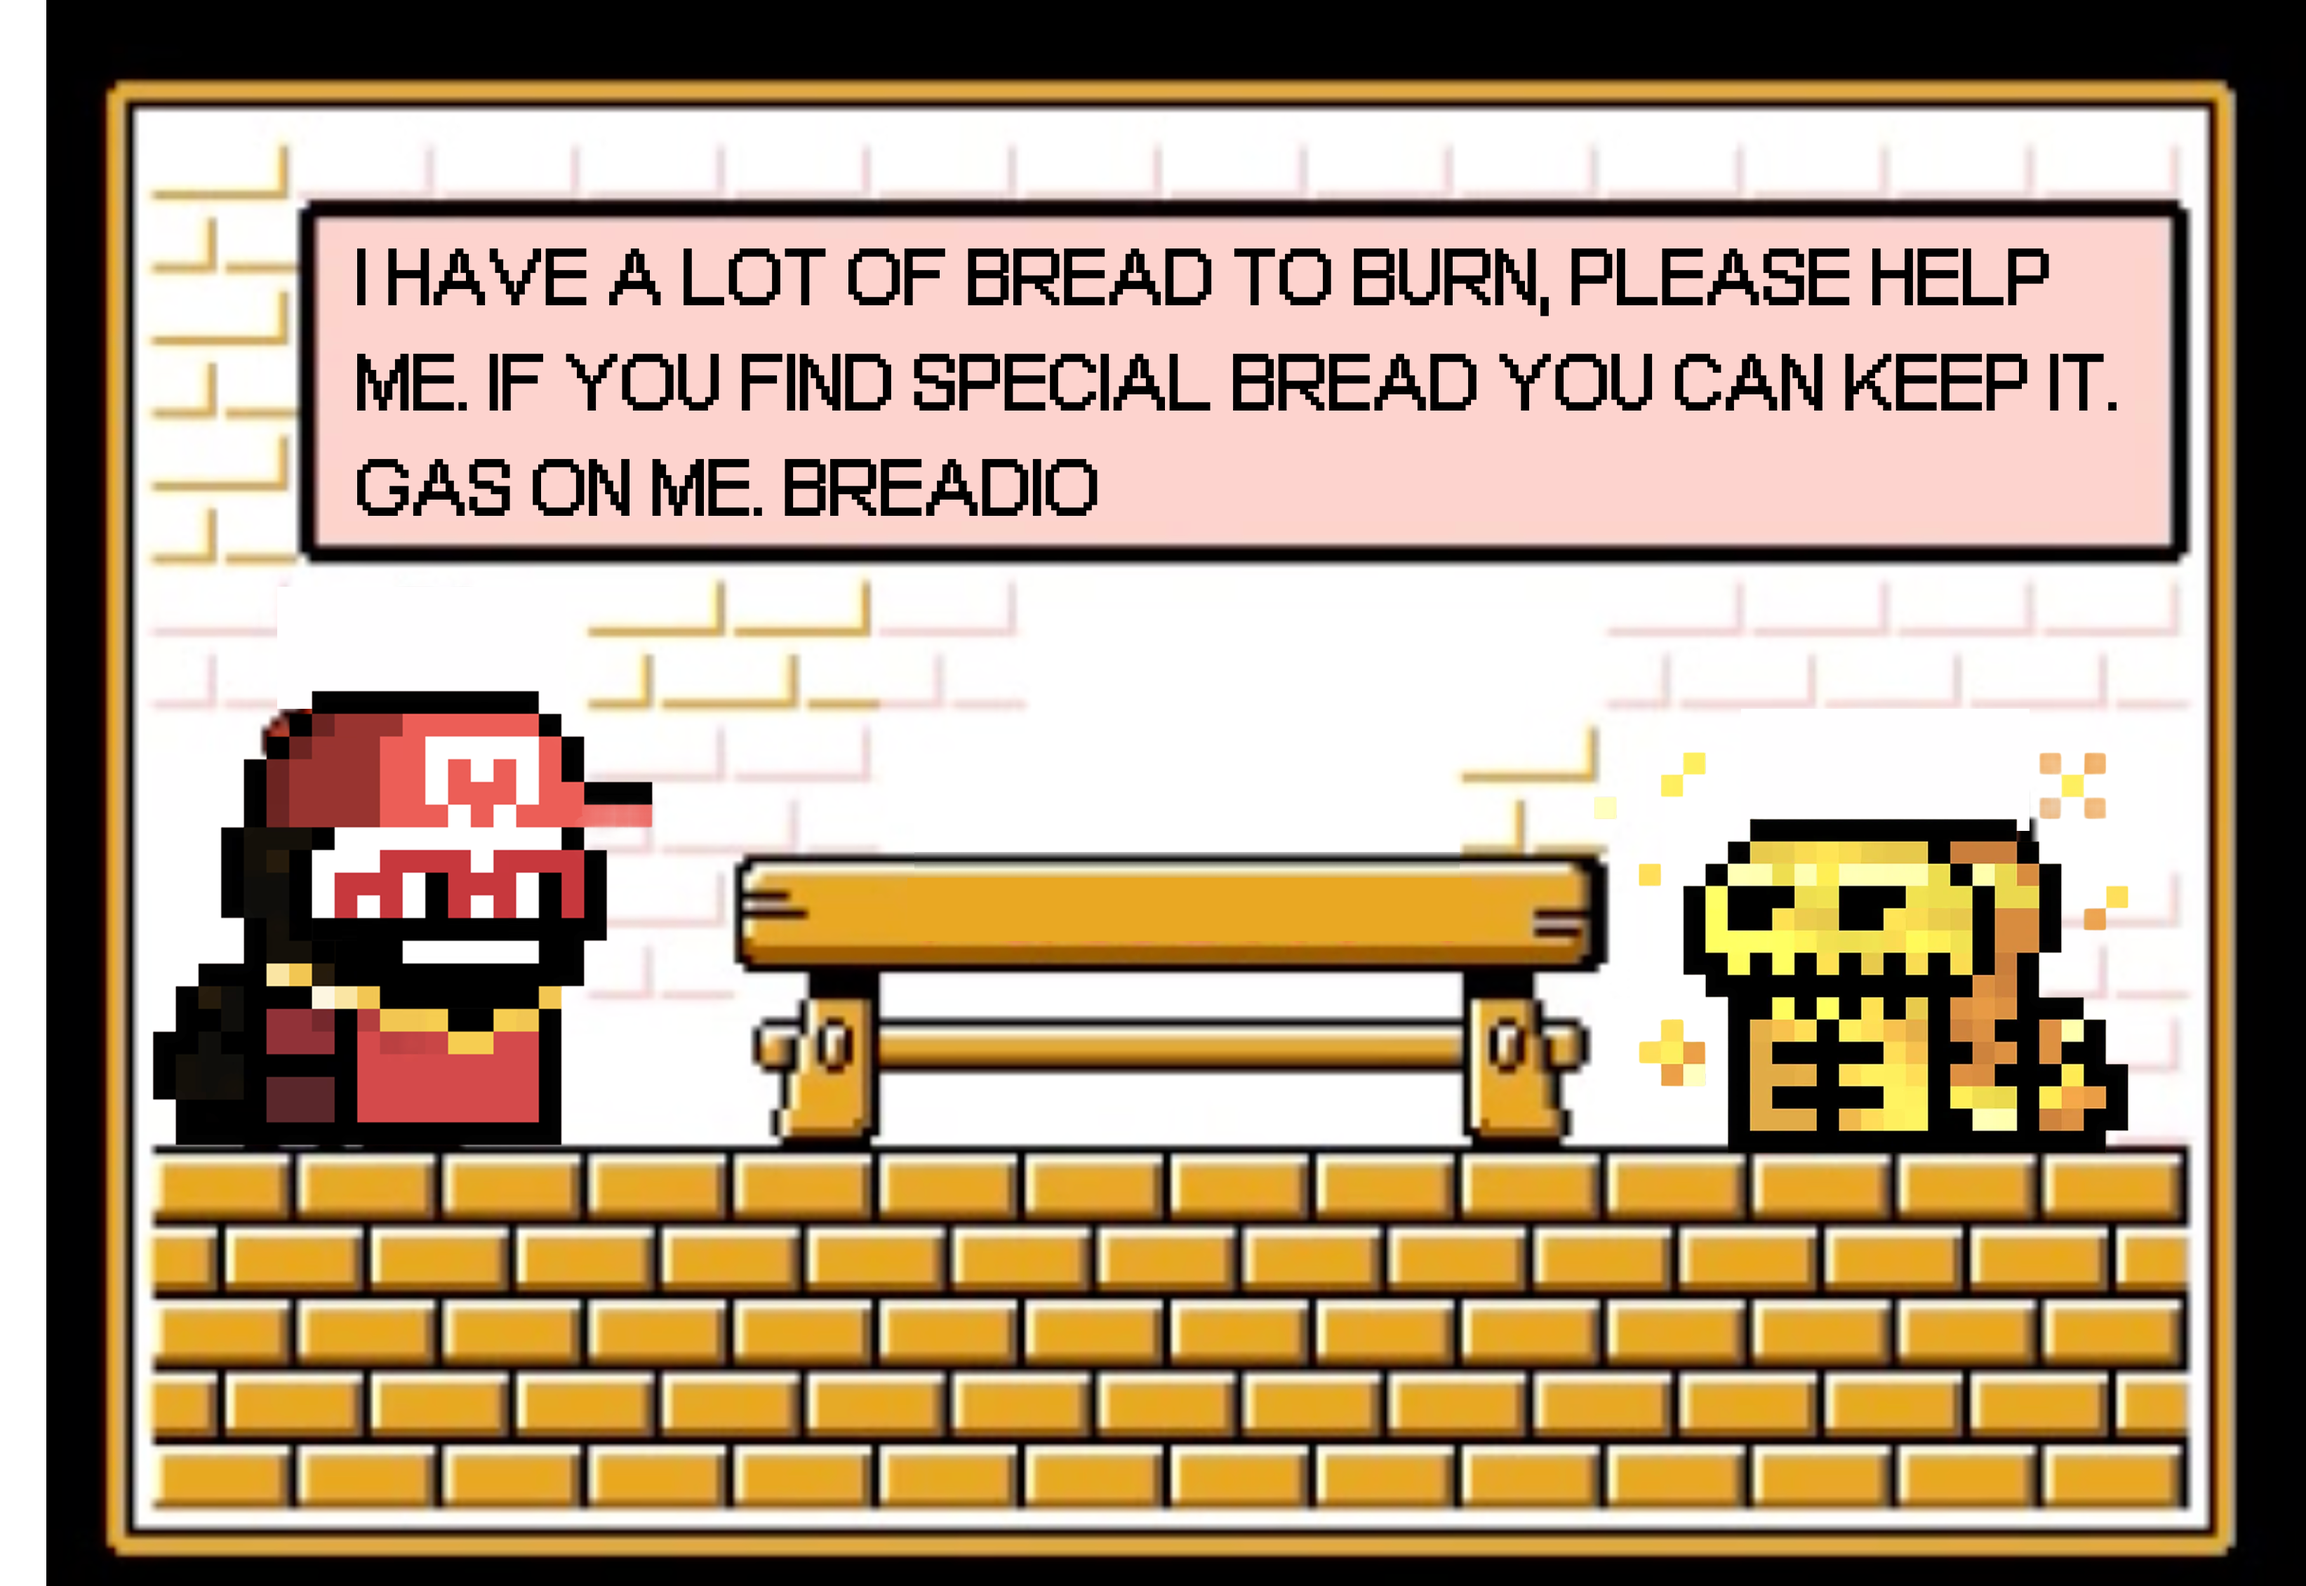
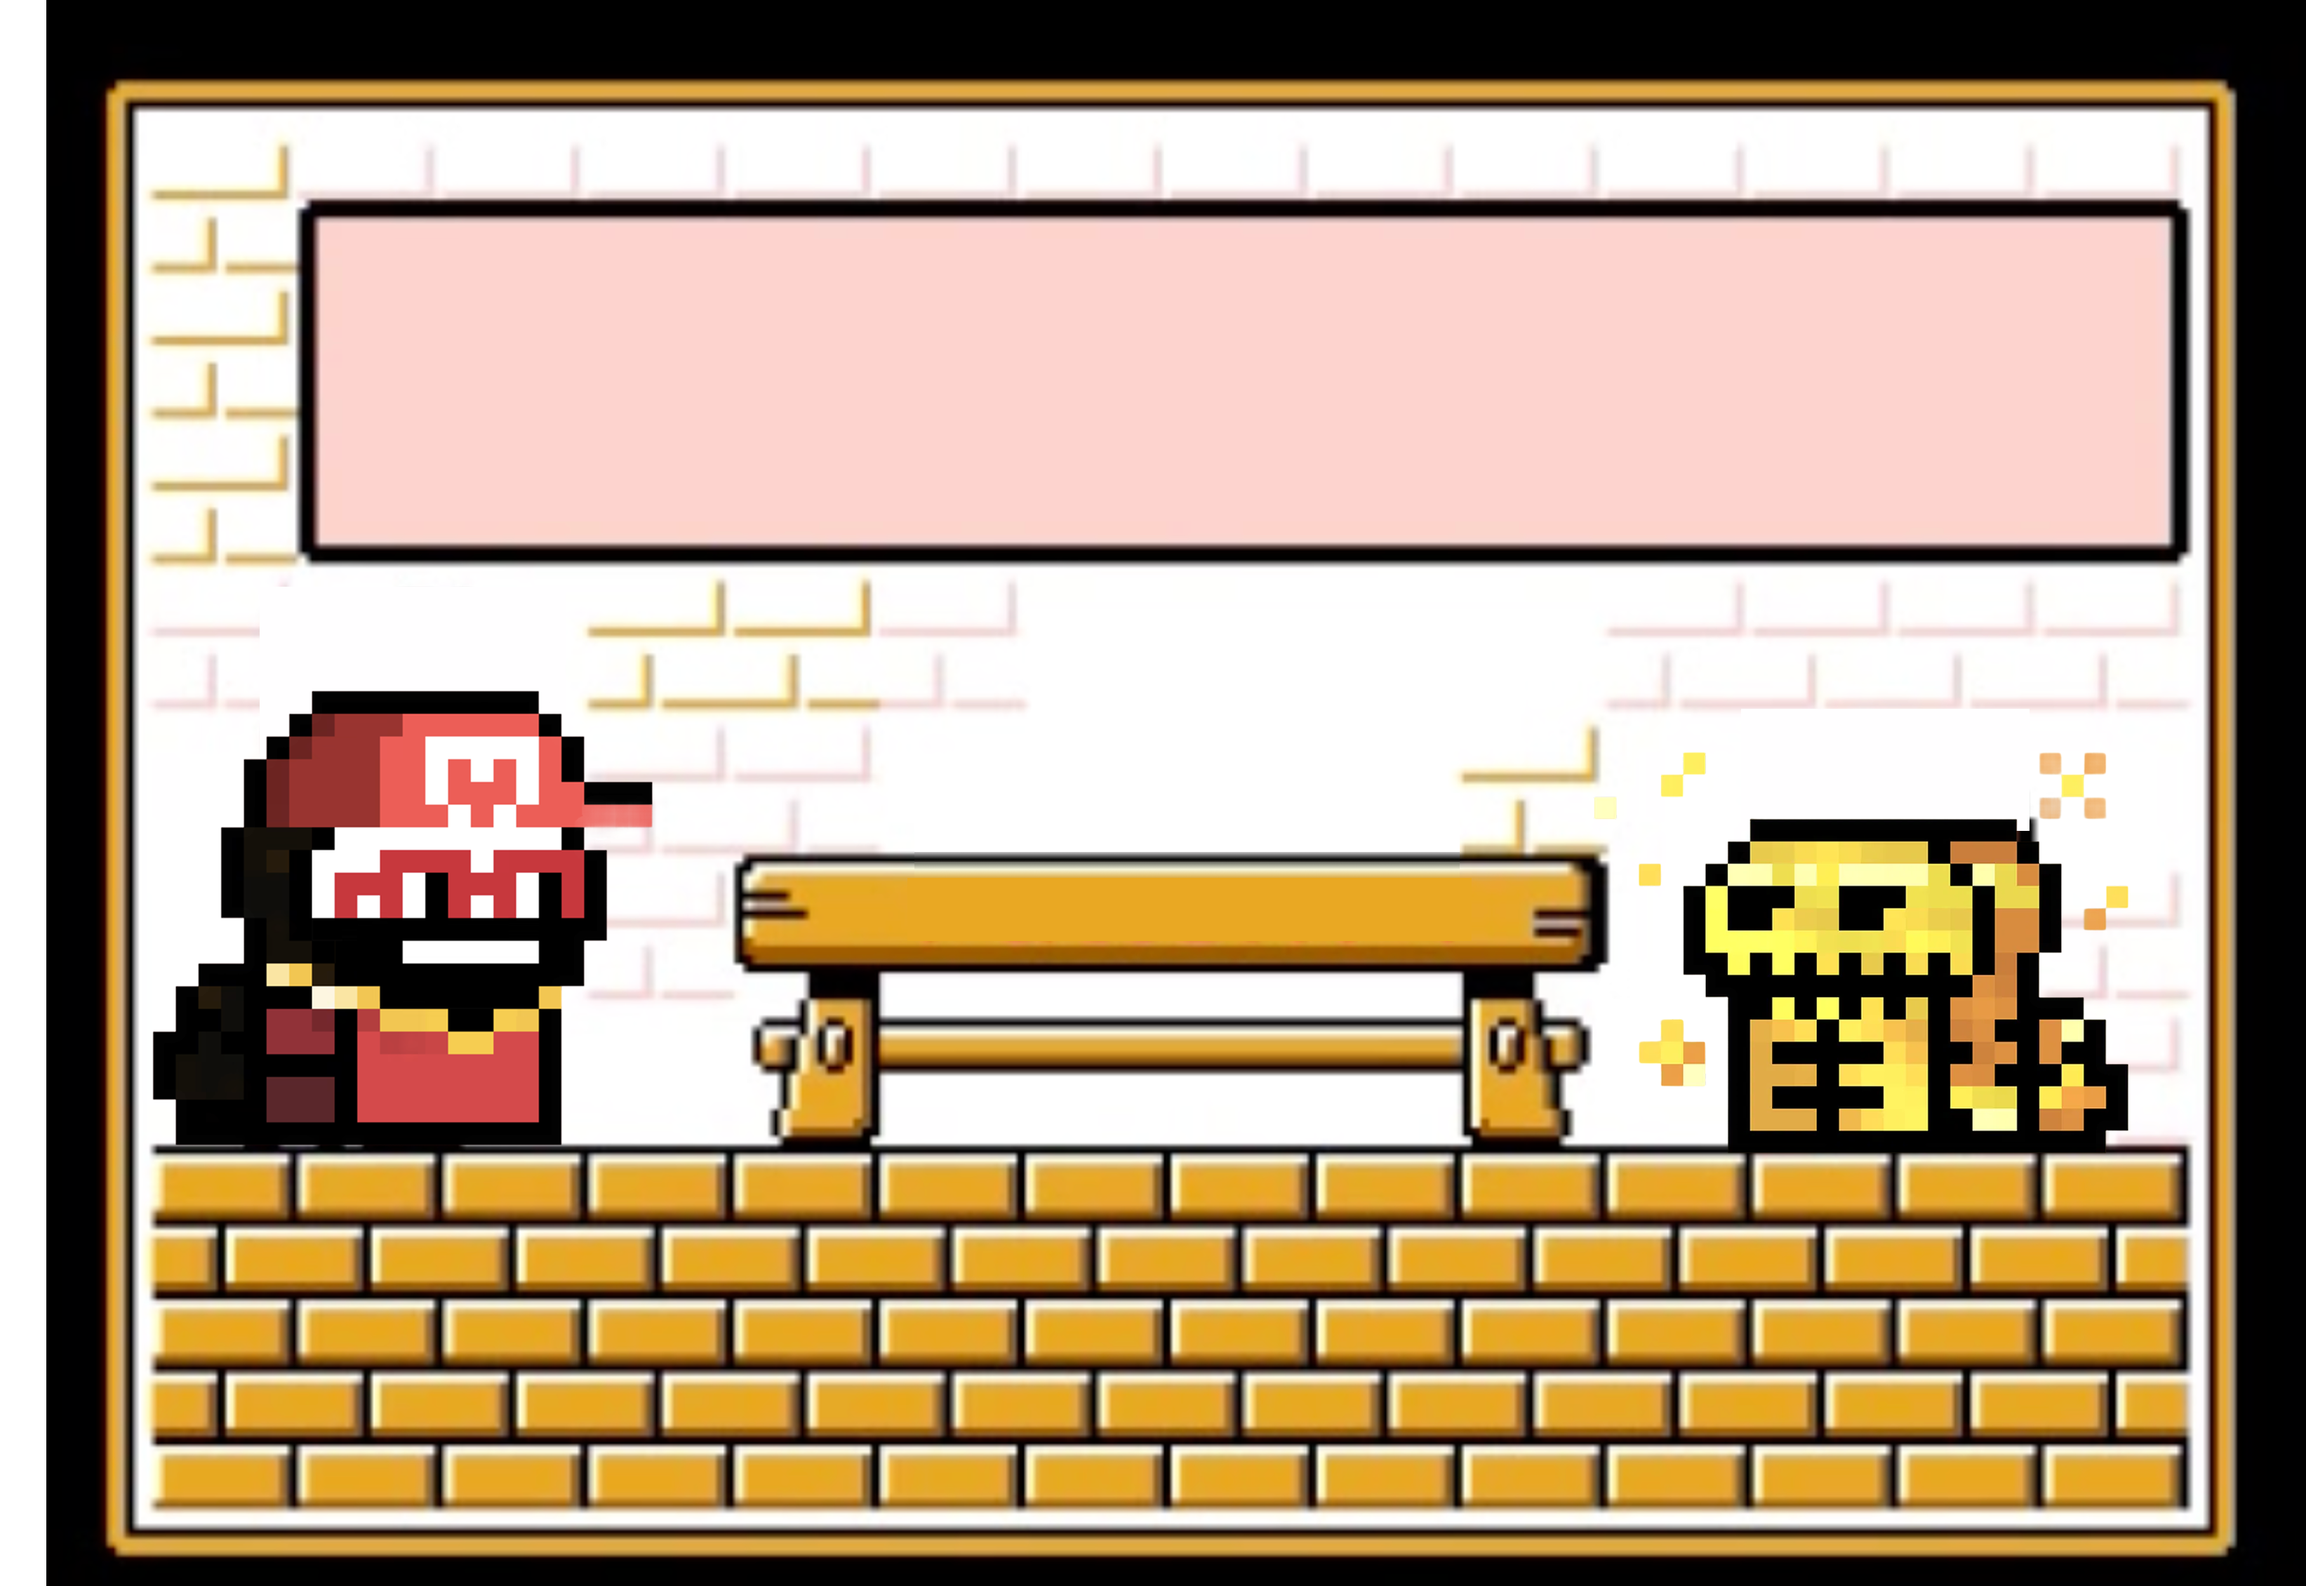
Fix text box positioning, add beep-bop sound on typewriter, update blank landing image

Changed region(s): [[0.1552, 0.1549, 0.9312, 0.3407], [0.0931, 0.4336, 0.1242, 0.4646]]

diff --git a/app/toast-or-fine-booty/page.tsx b/app/toast-or-fine-booty/page.tsx
@@ -5,16 +5,36 @@ import { useState, useEffect, useRef, useCallback } from 'react';
 const GAME_SERVER = process.env.NEXT_PUBLIC_GAME_SERVER || 'wss://breadiogame.tut.house';
 const GAME_API = process.env.NEXT_PUBLIC_GAME_API || 'https://breadiogame.tut.house';
 
-// ─── Typewriter text component ──────────────────────────────────────────────
+// ─── Typewriter text component with beep sound ─────────────────────────────
 function Typewriter({ text, speed = 40, onDone }: { text: string; speed?: number; onDone?: () => void }) {
   const [displayed, setDisplayed] = useState('');
   const i = useRef(0);
+  const ctxRef = useRef<AudioContext | null>(null);
+
+  const beep = useCallback(() => {
+    try {
+      if (!ctxRef.current) ctxRef.current = new AudioContext();
+      const ctx = ctxRef.current;
+      const osc = ctx.createOscillator();
+      const gain = ctx.createGain();
+      osc.connect(gain);
+      gain.connect(ctx.destination);
+      osc.type = 'square';
+      // Alternate between two pitches for "beep bop" feel
+      osc.frequency.value = Math.random() > 0.5 ? 440 : 520;
+      gain.gain.value = 0.04;
+      osc.start();
+      osc.stop(ctx.currentTime + 0.03);
+    } catch {}
+  }, []);
+
   useEffect(() => {
     setDisplayed('');
     i.current = 0;
     const interval = setInterval(() => {
       if (i.current < text.length) {
         setDisplayed(text.slice(0, i.current + 1));
+        if (text[i.current] !== ' ') beep();
         i.current++;
       } else {
         clearInterval(interval);
@@ -63,12 +83,12 @@ function LandingDialogue({ phase, ownsNFT, username, setUsername, onConnect, onJ
           width: '100%', imageRendering: 'pixelated', borderRadius: '8px',
         }} />
 
-        {/* Dialogue text overlay on the pink box area */}
+        {/* Dialogue text overlay — fits inside the pink box */}
         <div style={{
-          position: 'absolute', top: '3%', left: '12%', right: '5%', height: '22%',
-          display: 'flex', alignItems: 'center', padding: '8px 12px',
-          fontFamily: "'Press Start 2P'", fontSize: '9px', color: '#000',
-          lineHeight: '1.8', overflow: 'hidden',
+          position: 'absolute', top: '4%', left: '22%', right: '4%', height: '20%',
+          display: 'flex', alignItems: 'flex-start', padding: '10px 14px',
+          fontFamily: "'Press Start 2P'", fontSize: '8px', color: '#000',
+          lineHeight: '2.2', overflow: 'hidden', wordBreak: 'break-word',
         }}>
           <Typewriter
             key={`${phase}-${dialogueStep}`}
